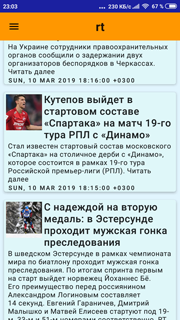
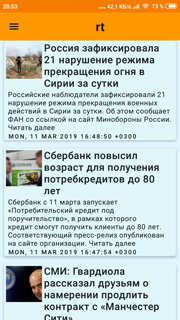
Screenshots, fix status bar color.

diff --git a/app/src/main/java/com/study/riseof/news/activity/mainActivity/MainActivity.java b/app/src/main/java/com/study/riseof/news/activity/mainActivity/MainActivity.java
@@ -136,12 +136,11 @@ public class MainActivity extends BaseActivity implements
     }
 
     @Override
-    protected void setStatusBarColor(int color) {
+    protected void setStatusBarColor(int colorId) {
         if (Build.VERSION.SDK_INT >= Build.VERSION_CODES.LOLLIPOP) {
             Window window = this.getWindow();
-            window.clearFlags(WindowManager.LayoutParams.FLAG_TRANSLUCENT_STATUS);
             window.addFlags(WindowManager.LayoutParams.FLAG_DRAWS_SYSTEM_BAR_BACKGROUNDS);
-            window.setStatusBarColor(color);
+            window.setStatusBarColor(getResources().getColor(colorId));
         }
     }
 
